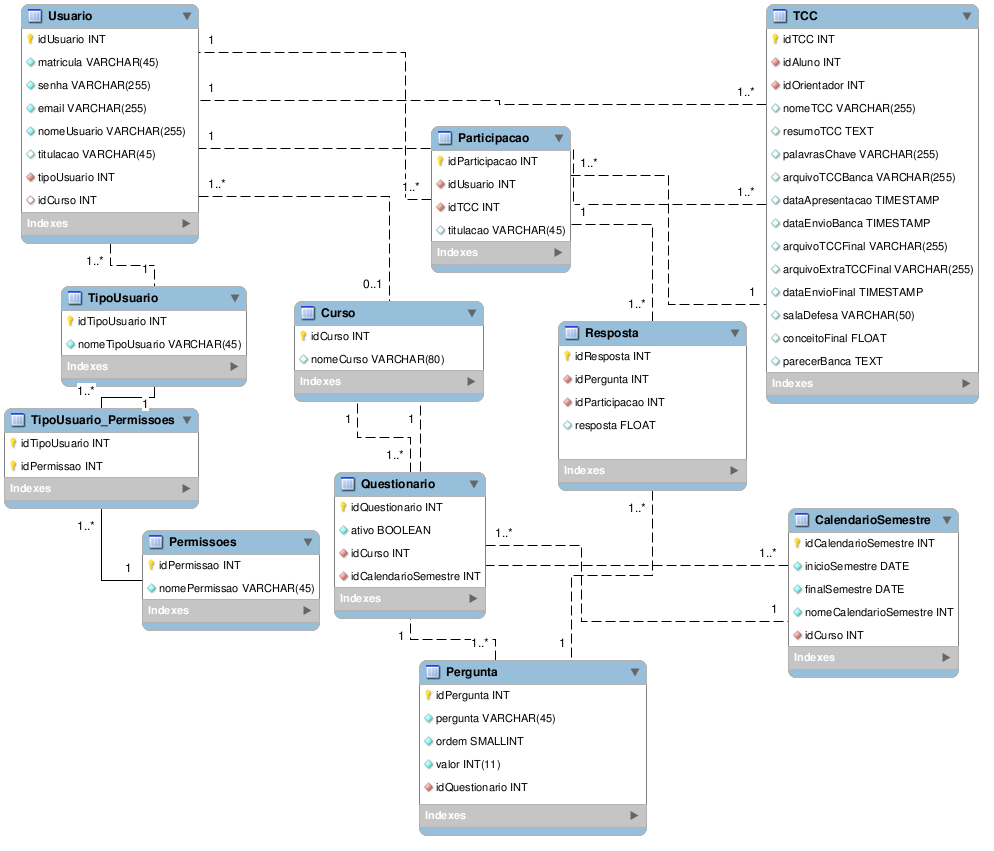
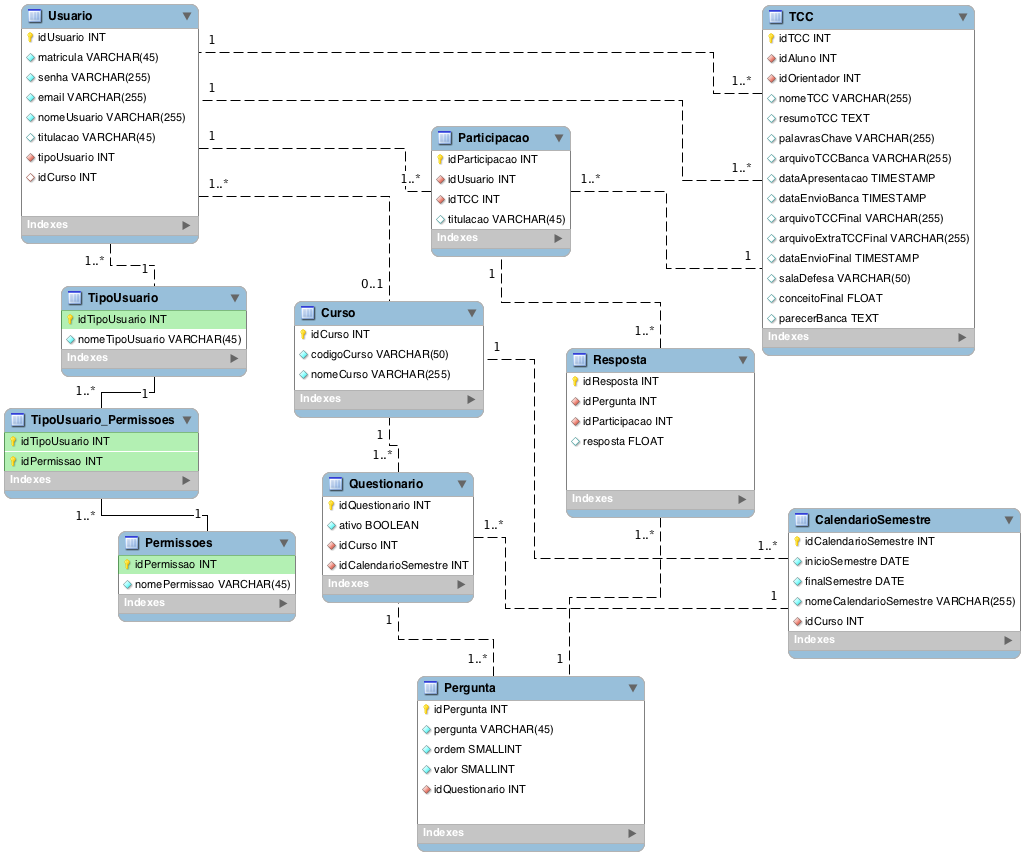
Modificada estrutura da tabela do Curso

diff --git a/src/br/ufjf/tcc/model/Curso.java b/src/br/ufjf/tcc/model/Curso.java
@@ -7,10 +7,13 @@ import java.util.List;
 import javax.persistence.Column;
 import javax.persistence.Entity;
 import javax.persistence.FetchType;
+import javax.persistence.GeneratedValue;
 import javax.persistence.Id;
 import javax.persistence.OneToMany;
 import javax.persistence.Table;
 import javax.persistence.Transient;
+
+import org.hibernate.annotations.GenericGenerator;
 
 /**
  * DTO da Tabela {@code Curso} contém os atributos e relacionamentos da mesma.
@@ -31,8 +34,18 @@ public class Curso implements Serializable {
 	 */
 	@Id
 	@Column(name = "idCurso", unique = true, nullable = false)
+	@GeneratedValue(generator = "increment")
+	@GenericGenerator(name = "increment", strategy = "increment")
 	private int idCurso;
 
+	/**
+	 * Campo com o nome do curso. Relaciona com a coluna {@code nomeCurso} do
+	 * banco através da anotação
+	 * {@code @Column(name = "codigoCurso", length = 80, nullable = false)}.
+	 */
+	@Column(name = "codigoCurso", length = 50, nullable = false)
+	private String codigoCurso;
+	
 	/**
 	 * Campo com o nome do curso. Relaciona com a coluna {@code nomeCurso} do
 	 * banco através da anotação
@@ -81,13 +94,21 @@ public class Curso implements Serializable {
 	public void setIdCurso(int idCurso) {
 		this.idCurso = idCurso;
 	}
-
+	
 	public String getNomeCurso() {
 		return nomeCurso;
 	}
 
 	public void setNomeCurso(String nomeCurso) {
 		this.nomeCurso = nomeCurso;
+	}
+
+	public String getCodigoCurso() {
+		return codigoCurso;
+	}
+
+	public void setCodigoCurso(String codigoCurso) {
+		this.codigoCurso = codigoCurso;
 	}
 
 	public List<Usuario> getUsuarios() {

diff --git a/src/br/ufjf/tcc/business/CursoBusiness.java b/src/br/ufjf/tcc/business/CursoBusiness.java
@@ -14,23 +14,21 @@ public class CursoBusiness {
 	public boolean validate(Curso curso, int action) {
 		errors.clear();
 
-		validateCode(curso.getIdCurso(), action);
+		validateCode(curso.getCodigoCurso(), action);
 		validateName(curso.getNomeCurso());
 
 		return errors.size() == 0;
 	}
 
-	public void validateCode(int codigoCurso, int action) {
-		if (codigoCurso <= 0)
-			errors.add("O código do curso deve ser maior que zero;\n");
+	public void validateCode(String codigoCurso, int action) {
+		if (codigoCurso == null || codigoCurso.trim().length() == 0)
+			errors.add("É necessário informar o código do curso;\n");
 		else if (action == ADICAO)
 			jaExiste(codigoCurso);
 	}
 
 	public void validateName(String nomeCurso) {
-		if (nomeCurso == null)
-			errors.add("É necessário informar o nome do curso;\n");
-		else if (nomeCurso.trim().length() == 0)
+		if (nomeCurso == null || nomeCurso.trim().length() == 0)
 			errors.add("É necessário informar o nome do curso;\n");
 	}
 
@@ -65,7 +63,7 @@ public class CursoBusiness {
 		return cursoDAO.exclui(curso);
 	}
 
-	public boolean jaExiste(int codigoCurso) {
+	public boolean jaExiste(String codigoCurso) {
 		CursoDAO cursoDAO = new CursoDAO();
 		boolean resultado = cursoDAO.jaExiste(codigoCurso);
 		if (resultado)

diff --git a/src/br/ufjf/tcc/controller/GerenciamentoCursoController.java b/src/br/ufjf/tcc/controller/GerenciamentoCursoController.java
@@ -1,7 +1,6 @@
 package br.ufjf.tcc.controller;
 
 import java.util.ArrayList;
-import java.util.Iterator;
 import java.util.List;
 
 import org.hibernate.HibernateException;
@@ -9,7 +8,6 @@ import org.zkoss.bind.BindUtils;
 import org.zkoss.bind.annotation.BindingParam;
 import org.zkoss.bind.annotation.Command;
 import org.zkoss.bind.annotation.Init;
-import org.zkoss.bind.annotation.NotifyChange;
 import org.zkoss.zk.ui.event.Event;
 import org.zkoss.zul.Messagebox;
 import org.zkoss.zul.Window;
@@ -105,19 +103,16 @@ public class GerenciamentoCursoController extends CommonsController {
 		this.filterString = filterString;
 	}
 
-	@NotifyChange("cursos")
 	@Command
 	public void filtra() {
-		List<Curso> temp = new ArrayList<Curso>();
+		cursos = new ArrayList<Curso>();
 		String filter = filterString.toLowerCase().trim();
-		for (Iterator<Curso> i = allCursos.iterator(); i.hasNext();) {
-			Curso tmp = i.next();
-			if (tmp.getNomeCurso().toLowerCase().contains(filter)) {
-				temp.add(tmp);
+		for (Curso c : allCursos) {
+			if (c.getNomeCurso().toLowerCase().contains(filter)) {
+				cursos.add(c);
 			}
 		}
-
-		cursos = temp;
+		BindUtils.postNotifyChange(null, null, this, "cursos");
 	}
 
 	@Command

diff --git a/src/br/ufjf/tcc/persistent/impl/CursoDAO.java b/src/br/ufjf/tcc/persistent/impl/CursoDAO.java
@@ -32,10 +32,10 @@ public class CursoDAO extends GenericoDAO implements ICursoDAO {
 	}
 	
 	@Override
-	public boolean jaExiste (int idCurso) {
+	public boolean jaExiste (String codigoCurso) {
 		try {
-			Query query = getSession().createQuery("select c from Curso c where c.idCurso = :idCurso");
-			query.setParameter("idCurso", idCurso);
+			Query query = getSession().createQuery("select c from Curso c where c.codigoCurso = :codigoCurso");
+			query.setParameter("codigoCurso", codigoCurso);
 			
 			boolean resultado = query.list().size() > 0 ? true : false;
 			

diff --git a/src/br/ufjf/tcc/persistent/ICursoDAO.java b/src/br/ufjf/tcc/persistent/ICursoDAO.java
@@ -6,5 +6,5 @@ import br.ufjf.tcc.model.Curso;
 
 public interface ICursoDAO {
 	public List<Curso> buscar(String expressão);	
-	public boolean jaExiste (int idCurso);
+	public boolean jaExiste (String codigoCurso);
 }
